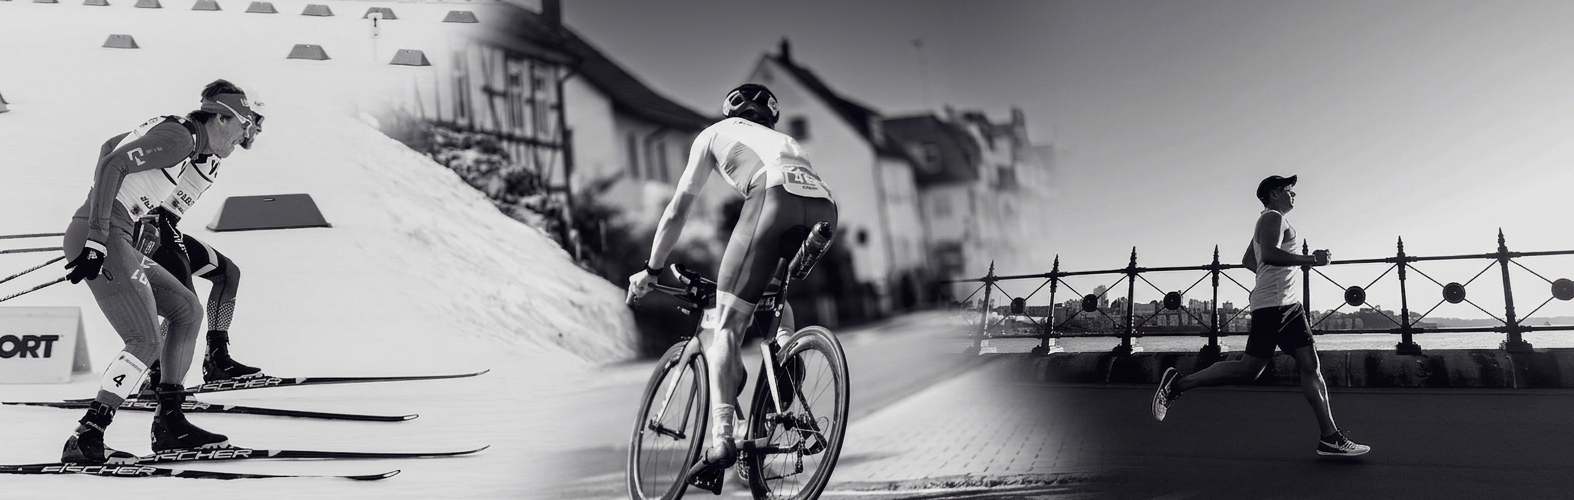
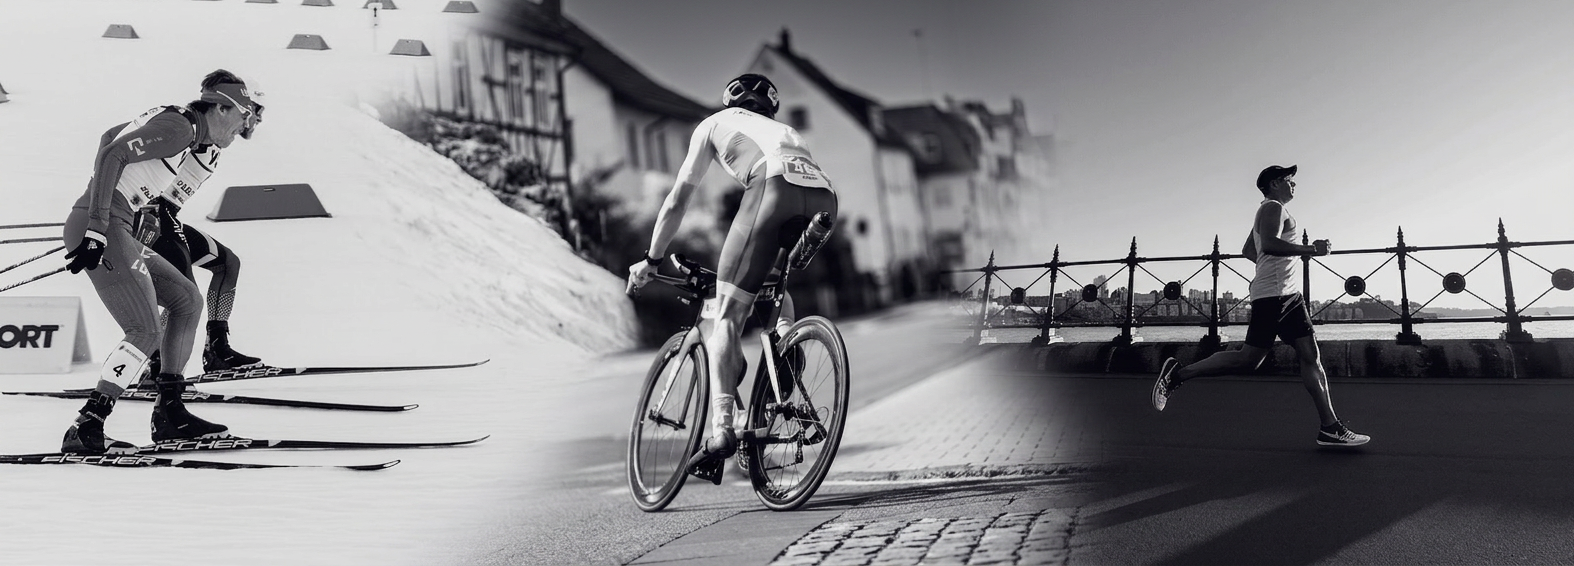
landing: hero crop сохраняет низ (лыжи, колёса, ноги) — ratio 2.78
Предыдущий crop 1574x500 отрезал низ и потерял лыжи у лыжника + колёса
у велосипедиста — это ломало смысл endurance-триптиха. Новый crop
(0,90,1574,656) обрезает только верх (трибуны + небо), низ сохраняет
полностью.

— hero-bg-v3.png: 1574x566 (ratio 2.78)
— background-position: center bottom (десктоп) / 30% bottom (mobile) —
  гарантирует что нижняя часть с лыжами/колёсами не уходит за вьюпорт
— min-height: 560px desktop / 480px mobile

diff --git a/beatmetrics/nginx/html/landing.html b/beatmetrics/nginx/html/landing.html
@@ -179,13 +179,13 @@ main { max-width: 1100px; margin: 0 auto; padding: 0 24px; }
 section.hero {
   position: relative;
   padding: 0;
-  min-height: 520px;
+  min-height: 560px;
   display: flex; align-items: center;
   background:
     linear-gradient(rgba(15,12,40,0.45), rgba(15,12,40,0.65)),
     url('/landing-assets/hero-bg-v3.png');
   background-size: cover;
-  background-position: center 32%;
+  background-position: center bottom;
   background-color: #1a1730;
   color: #fff;
 }
@@ -195,8 +195,8 @@ section.hero {
 }
 @media (max-width: 860px) {
   section.hero {
-    min-height: 460px;
-    background-position: 35% 35%;
+    min-height: 480px;
+    background-position: 30% bottom;
   }
   .hero-inner { padding: 36px 20px; }
 }